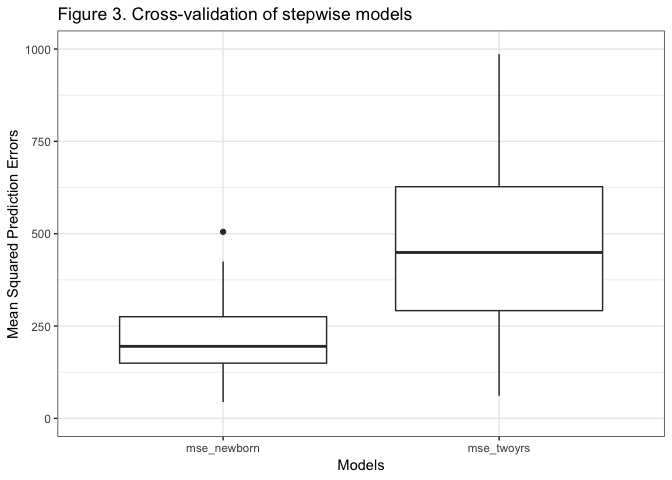
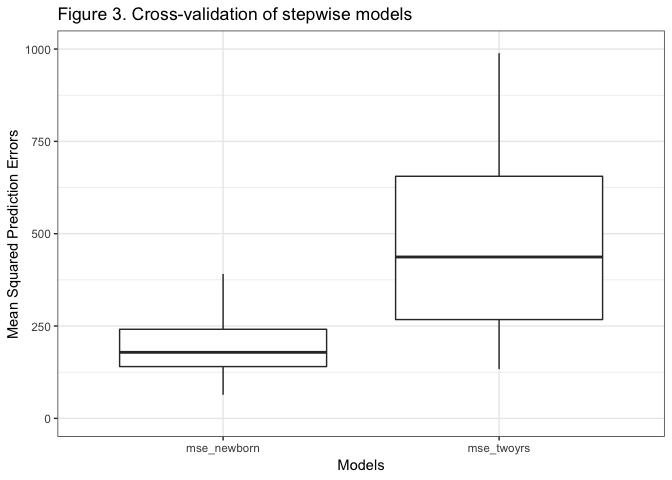
update a little bit

diff --git a/cdh_phenotypes.md b/cdh_phenotypes.md
@@ -86,6 +86,10 @@ Table 1.
 | dc\_281                  |   11.4190635 | 0.0076098 |
 | day\_28\_oxygen2         |  \-6.5489601 | 0.0333871 |
 
+| r.squared | adj.r.squared |    sigma | statistic | p.value | df |
+| --------: | ------------: | -------: | --------: | ------: | -: |
+| 0.5795081 |      0.479391 | 10.83155 |  5.788301 |   3e-07 | 16 |
+
 Stepwise regression with 2-year and birth data.
 
 Coefficients and p value for significant variables are listed.
@@ -118,6 +122,10 @@ Table 2.
 | vabs\_com\_stand\_score      |    0.6399698 | 0.0108249 |
 | vabs\_dai\_liv\_stand\_score |  \-0.4234547 | 0.0279972 |
 
+| r.squared | adj.r.squared |    sigma | statistic | p.value | df |
+| --------: | ------------: | -------: | --------: | ------: | -: |
+| 0.7486823 |     0.5738527 | 9.799746 |  4.282353 | 4.1e-06 | 33 |
+
 Cross-validation of the two models
 
 ![](cdh_phenotypes_files/figure-gfm/cross_validation-1.png)<!-- -->
@@ -143,6 +151,11 @@ Figure 4. Using birth data.
 | dc\_28                  |    4.1115409 |
 | dc\_alive\_age          |  \-0.0489990 |
 
+    ## [1] "r square:"
+
+    ##          s0
+    ## s0 0.381596
+
 Figure 5. Using birth and 2-year data.
 
 ![](cdh_phenotypes_files/figure-gfm/lasso_2yrs-1.png)<!-- -->
@@ -162,10 +175,15 @@ Figure 5. Using birth and 2-year data.
 | da\_cog\_composite\_score  |    0.0438073 |
 | vabs\_com\_stand\_score    |    0.0529395 |
 
+    ## [1] "r square:"
+
+    ##          s0
+    ## s0 0.445856
+
 *3. Deep learning*
 
-Deep learning
-performance
+Deep learning performance, vertical lines indicate selected
+iterations.
 
 ![](cdh_phenotypes_files/figure-gfm/deep_learning_history-1.png)<!-- -->![](cdh_phenotypes_files/figure-gfm/deep_learning_history-2.png)<!-- -->
 
@@ -191,8 +209,8 @@ values
 
 | model               |       rsq |       mse |     mspe |
 | :------------------ | --------: | --------: | -------: |
-| Stepwise birth      | 0.5738527 |  93.56104 | 195.0238 |
-| Stepwise 2-year     | 0.4793910 |  55.91913 | 616.7831 |
+| Stepwise birth      | 0.5738527 |  93.56104 | 178.8134 |
+| Stepwise 2-year     | 0.4793910 |  55.91913 | 642.1287 |
 | Lasso birth         | 0.3815960 | 137.59722 | 194.3534 |
 | Lasso 2-year        | 0.4458560 | 123.29912 | 201.8027 |
 | Deeplearning birth  | 0.3831679 | 137.83556 | 229.4835 |
